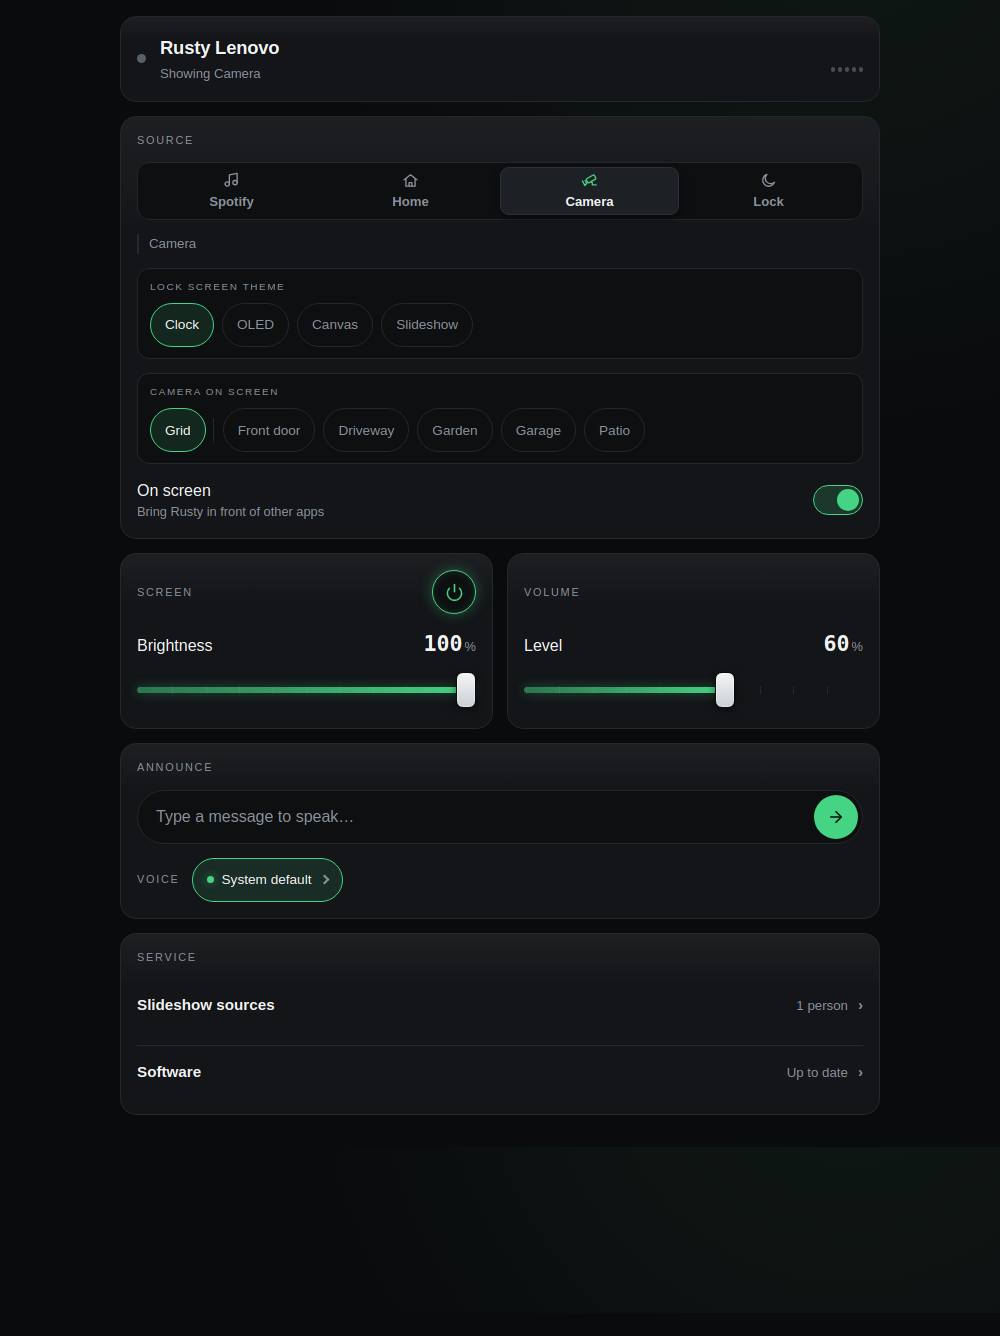
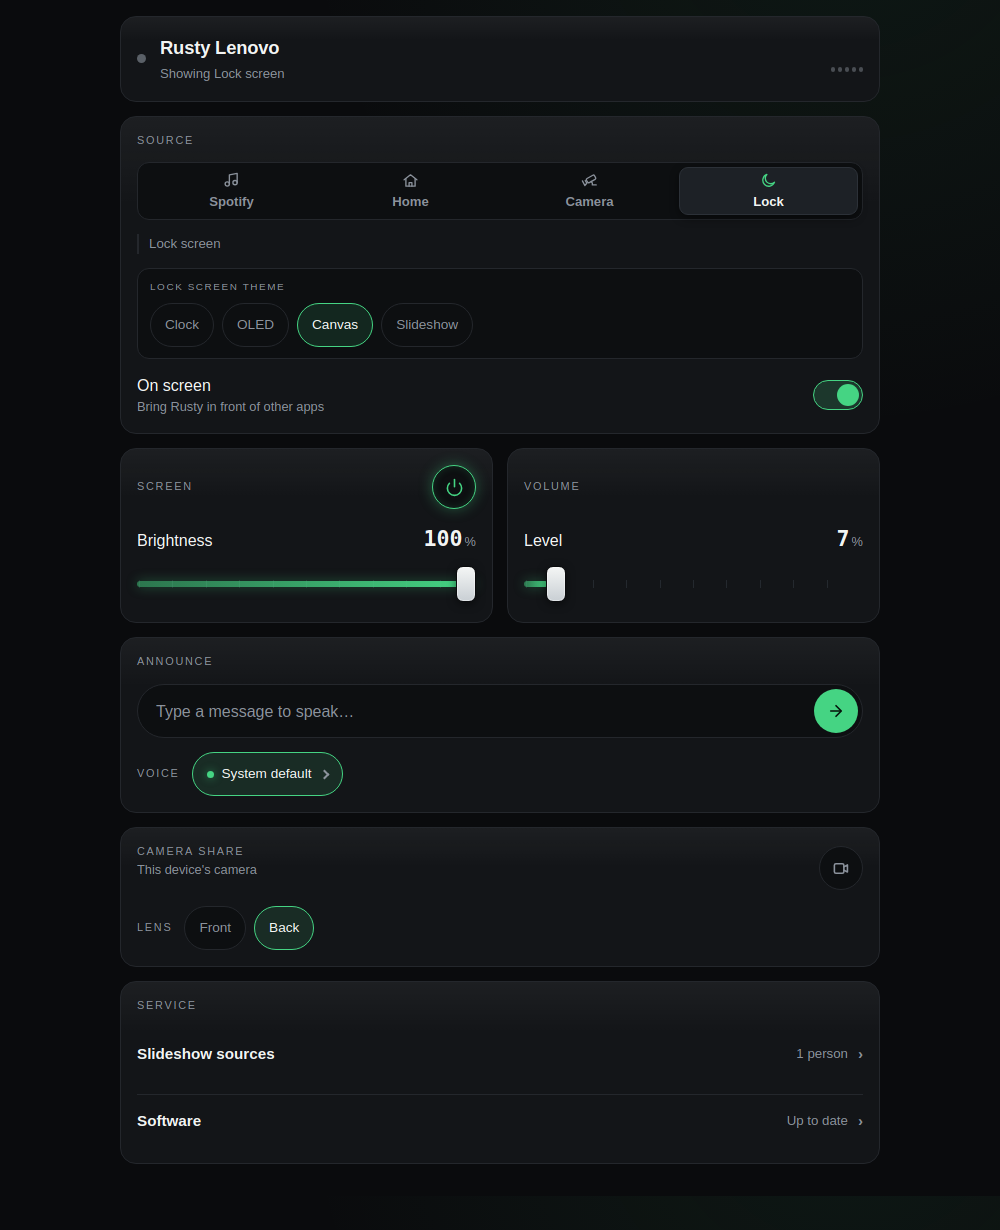
docs: cover the 2.8.0 features in the README and the remote-control page
README: crossfade on by default with the screen dissolving across it, seek
from the progress bar, announcement text on screen, dashboards picked from
the control page, the version chip and the update dot, and a current APK
name in the install steps.

Remote control: the dashboard strip under Home, the theme strip only under
Lock, the announcement card and its switch, Check now and the sectioned
What's new, and a short list of the API calls automations reach for
(state, seek, dashboard, lock screen theme, update check).

New screenshots for Settings (the Voice tab), Services & status (the
version chip) and the control page at both widths (Lock source, so the
theme strip shows).

diff --git a/README.md b/README.md
@@ -47,7 +47,7 @@ https://github.com/user-attachments/assets/973e78b3-98b2-4a9f-96a5-fc913f78ac96
 > the track, artist, listener and lyrics are placeholders — no copyrighted content. The Home
 > Assistant shot uses the public Home Assistant demo. The Cameras shot shows four illustrated test
 > scenes served from a laptop, not real cameras, and the control page shots were taken in a browser
-> against a tablet running Rusty with those same test cameras.
+> against a tablet running Rusty.
 
 ---
 
@@ -61,14 +61,16 @@ https://github.com/user-attachments/assets/973e78b3-98b2-4a9f-96a5-fc913f78ac96
   [librespot](https://github.com/librespot-org/librespot) (Rust) and played through Android's
   own `AudioTrack` with a deep ~1 s buffer, at up to 320 kbps. Android routes the output, so
   sound follows a Bluetooth speaker connected or dropped mid-track, and pause is instant.
-- **Crossfade** — optional 1–12 s overlap between tracks, at the end of a track and on a skip,
-  like the Spotify app's own setting. 4 s by default; slide it to Off for gapless playback.
-  Changes apply to the session that is playing, from its next track change. As in the official
-  client, the now-playing screen, the Home Assistant `media_player` and the remote-control page
-  move to the next track when the fade starts, not when the old track has fully faded out.
+- **Crossfade** — a 1–12 s overlap between tracks, at the end of a track and on a skip, like the
+  Spotify app's own setting. 4 s by default; slide it to Off for gapless playback. Changes apply
+  to the session that is playing, from its next track change. The now-playing screen and the
+  Canvas video dissolve across the fade, and as in the official client, the screen, the Home
+  Assistant `media_player` and the remote-control page move to the next track when the fade
+  starts, not when the old track has fully faded out.
 - **Ambient now-playing screen** — album-art colour wash, drifting mesh background, accent-aware
   theming, and time-aligned **lyrics** that scroll with the track, active line highlighted.
-  Optionally the track's looping **Spotify Canvas** video in place of static art.
+  Optionally the track's looping **Spotify Canvas** video in place of static art. Drag the
+  progress bar to seek, or focus it and step through the track with a remote.
 - **Playback takeover** — when a phone or laptop starts playing on this receiver, Rusty can wake
   the screen and bring itself to the front. Both toggles off by default. See
   [Playback takeover](docs/remote-control.md#playback-takeover).
@@ -86,12 +88,15 @@ https://github.com/user-attachments/assets/973e78b3-98b2-4a9f-96a5-fc913f78ac96
 
 - **Home Assistant dashboard** — sign in and Rusty shows your dashboards full-screen and
   kiosk-style, with switcher chips to jump between them and chrome tinted to your theme. It
-  discovers your dashboards and sidebar apps itself.
+  discovers your dashboards and sidebar apps itself, and the control page can put any of them
+  on screen from another room.
 - **Home Assistant media renderer** — Rusty appears as a DLNA `media_player` entity with nothing
   to install on the HA side. Stream internet radio to it, or drive it from automations, scripts
   and dashboard cards.
 - **Spoken announcements** — type a message on the control page or send one from a Home Assistant
-  automation and the device says it out loud, in a downloadable neural voice.  Spotify pauses or fades while it speaks and resumes afterwards.
+  automation and the device says it out loud, in a downloadable neural voice. Spotify pauses or
+  fades while it speaks and resumes afterwards, and a typed message also shows on screen for as
+  long as it is spoken.
 - **Cameras** — a wall of your RTSP cameras as snapshot tiles that refresh on a timer, and a tap
   or OK away a full-screen live view with sound, a sub/main switch and a snapshot button. Add
   them by ONVIF scan, by address or by hand. A Rusty with its own camera can share it to the
@@ -104,19 +109,20 @@ https://github.com/user-attachments/assets/973e78b3-98b2-4a9f-96a5-fc913f78ac96
   screen on/off, speak a message, and re-aim the Slideshow — from a phone in another room. Scan
   a QR code to open it. See [Remote control](docs/remote-control.md).
 - **Services & status** — one page showing every service and feature at a glance, each with its
-  state, name and address, reachable from the info button on any screen.
+  state, name and address, reachable from the info button on any screen. The chip at its top
+  shows the version, and turns green when an update is out.
 - **Made to sit on a shelf** — start on boot, keep the screen on, hide the system bars, rename
-  the receiver live without a restart, update itself from **About & updates** or from another
-  room, an on-screen launcher between Spotify, Home Assistant and the screensaver, and settings
+  the receiver live without a restart, a green dot on the info button when a new release is out
+  and an update from **About & updates** or from another room, an on-screen launcher between Spotify, Home Assistant and the screensaver, and settings
   tabbed per feature.
 
 ## Install
 
 1. Go to the [**Releases**](https://github.com/SerafiniJose/rusty/releases/latest) page.
-2. Download the `.apk` for the latest release (e.g. `rusty-v2.0.0.apk`).
+2. Download the `.apk` for the latest release (e.g. `rusty-v2.8.0.apk`).
 3. Sideload it onto your device:
    ```bash
-   adb install -r rusty-v2.0.0.apk
+   adb install -r rusty-v2.8.0.apk
    ```
    (Or enable "Install unknown apps" and open the APK directly on the device.)
 4. Launch the app — it begins advertising as a Connect target right away.

diff --git a/docs/remote-control.md b/docs/remote-control.md
@@ -18,6 +18,9 @@ URL and never the password; the page asks for that itself. Either way you get a 
   is lit, a strip of your cameras: tap one to show it full screen on the device, or **Grid** to
   go back to the wall. With the password on, the API also serves each camera's latest still at
   `/api/camera/<id>/snapshot`.
+- **Dashboard on screen** — while the Home lamp is lit, a strip of the dashboards on the device's
+  own chip bar, the one on screen highlighted: tap one to put it up. Like the chip bar, it only
+  appears with two or more dashboards.
 - **Camera share** — on a device that can share its own camera, a card to switch the share on or
   off, the lens and quality chips, and the `rtsp://` URL with a copy button for pasting into VLC
   or Home Assistant. Devices without a camera don't show the card at all. Starting the share
@@ -28,9 +31,9 @@ URL and never the password; the page asks for that itself. Either way you get a 
   panel. Both directions need Rusty to hold Android's **"Display over other apps"** permission —
   and the switch is deliberately dead in *both* directions without it, because sending Rusty away
   when it can't come back would leave a touch-free screen with no way home.
-- **Lock screen theme** — pick Clock, OLED, Canvas or Slideshow. This one works even when Rusty
-  isn't in the foreground, because it's a saved preference: a lock screen that appears later
-  uses it, and one that's already up swaps instantly.
+- **Lock screen theme** — while the Lock lamp is lit, pick Clock, OLED, Canvas or Slideshow. This
+  one works even when Rusty isn't in the foreground, because it's a saved preference: a lock
+  screen that appears later uses it, and one that's already up swaps instantly.
 - **Screen** — on/off and a brightness slab you can drag anywhere on. "Off" is a full-screen
   black overlay that keeps the panel awake, so turning it back on is instant; touching the device
   (or pressing any remote key) also wakes it.
@@ -39,18 +42,38 @@ URL and never the password; the page asks for that itself. Either way you get a 
 - **Announce** — type a message and the device says it out loud, in the voice picked from the
   same list as **Settings → Voice** (downloadable voices included). Spotify pauses or
   fades while it speaks and resumes afterwards. Nothing else has to be running for this: no DLNA
-  player, no Home Assistant — Rusty does the speaking itself.
+  player, no Home Assistant — Rusty does the speaking itself. The text also shows in a card at
+  the top of the device's screen for as long as it is spoken; **Settings → Voice → Show on
+  screen** turns the card off and leaves the voice alone.
 - **Slideshow sources** — the same album / person / tag checklists as the in-app picker, so you
   can re-aim the photo frame from the sofa. Collapsed under **Service**, since it's a setup task
   rather than something you do daily.
-- **Software** — see whether a newer Rusty release exists and start the download from your sofa,
-  also under **Service**. The device fetches the APK itself and hands it to Android's installer;
+- **Software** — see whether a newer Rusty release exists, read what's new in it section by
+  section, and start the download from your sofa, also under **Service**. The device checks
+  GitHub once a day on its own; **Check now** asks straight away. The device fetches the APK itself and hands it to Android's installer;
   **Android always asks for confirmation on the device screen** (a sideloaded app can't update
   itself silently), so the last step is one OK on the device — by touch or D-pad. The very first
   time, Android also shows a one-time **"allow installs from this source"** screen for Rusty.
 
 The port is fixed at **8765**. Nothing needs to be installed on the other device — it's one
 self-contained page, no accounts, no cloud.
+
+Everything the page does goes through the JSON API, so scripts and Home Assistant automations
+can do the same. A few calls that have no button of their own, or are handy from an automation:
+
+- `GET /api/state` — what the device is showing, the Spotify track's `elapsedMs` and `durationMs`,
+  and under `panel.homeAssistant` the chip-bar dashboards and the active one.
+- `POST /api/seek` with `{"positionMs": 60000}` — seek the playing Spotify track (409 when
+  nothing is loaded).
+- `POST /api/home_assistant/dashboard` with `{"path": "…"}` — switch to Home Assistant and put
+  that dashboard up, clearing the lock screen if needed. Only dashboards on the device's chip
+  bar are accepted.
+- `POST /api/lockscreen` with `{"theme": …}` — set the lock screen theme, whatever source is
+  showing; `/api/state` lists the valid names under `panel.lockscreen.themes`.
+- `POST /api/update/check` — check GitHub for a new release now.
+
+Writes need `Content-Type: application/json`, and `Authorization: Bearer <password>` once a
+password is set (see [Security](#security--please-read-before-enabling)).
 
 ## The "Allow system brightness" row
 

diff --git a/screenshots/README.md b/screenshots/README.md
@@ -16,8 +16,11 @@ Assistant demo.
 | `screensaver-oled.png` | Screensaver OLED-burn-in-safe minimal face |
 | `home-assistant.png` | Home Assistant dashboard in the WebView (public demo) |
 | `launcher.png` | Expanded on-screen launcher (Spotify / Home Assistant pills) |
-| `settings.png` | Tabbed settings (General / Screensaver / Spotify / Home Assistant) |
-| `services-status.png` | Services & status — every service and feature with its state |
+| `settings.png` | Tabbed settings, on the Voice tab |
+| `services-status.png` | Services & status — every service and feature with its state, and the version chip |
+| `cameras.png` | Camera wall with four illustrated test scenes |
+| `control-page.png` | Remote control page in a desktop browser, Lock source selected |
+| `control-page-phone.png` | The same page at phone width |
 
 Capture tip: enable **Fullscreen** in Settings → General, then
 `adb exec-out screencap -p > screenshots/<name>.png`.
